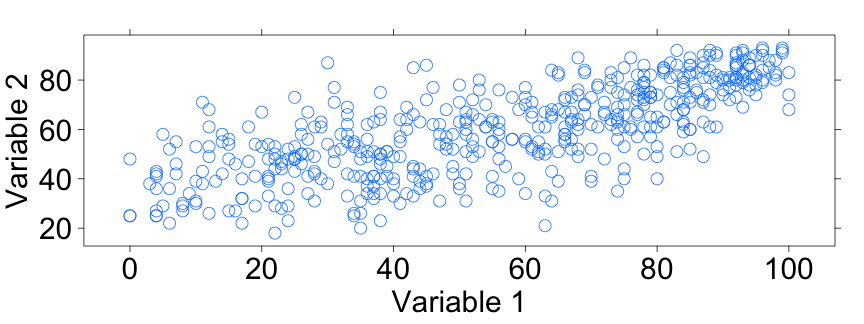
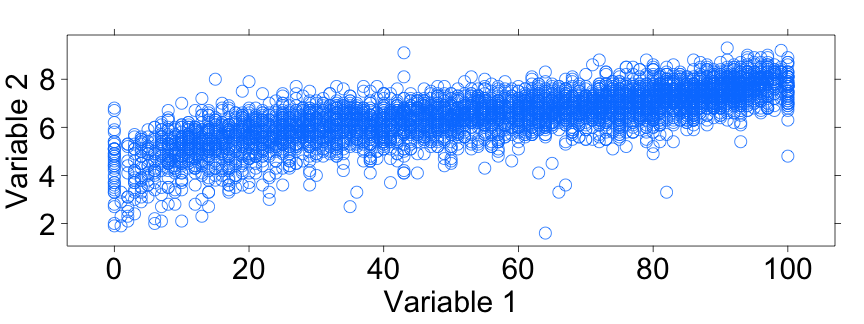
Update lab 4D.

diff --git a/unit_4/lab4d/lab4d.md b/unit_4/lab4d/lab4d.md
@@ -48,16 +48,18 @@ The movie data
 === 
 
 - Load the `movie` data using the `data` command.
-- The data comes from a movie rating website called _Rotten Tomatoes_. 
-    - The `critics_rating` and `audience_rating` are values that range between 0 and 100, 100 being the best.
-    - The `critics_score` and `audience_score` are summaries of which films _Rotten Tomatoes_ feels are worth, or not worth, watching.
-    - `domest_gross` descibes the domestic gross income of a film, i.e. the amount of money it made in the U.S.
+- The data comes from a variety of sources like _IMDB_ and _Rotten Tomatoes_. 
+    - The `critics_rating` contains values between 0 and 100, 100 being the best.
+    - The `audience_rating` contains values that range between 0 and 10, 10 being the best.
+    - `n_critics` and `n_audience` describe the number of reviews used for the ratings.
+    - `gross` and `budget` descibes the amount of money the film made and took to make.
 
 
 Calculating Correlation Coefficients!
 ===
 
 - We can use the `cor()` function to find the particular correlation coefficient of the variables from the previous plot, which happen to be `audience_rating` and `critics_rating`.
+    - But note, the `cor()` function removes any observations which contains an `NA` value in either variable.
     - **Calculate the correlation coefficient for these variables using the `cor` function. The inputs to the functions work just like the inputs of the `xyplot` function.**
 
 
